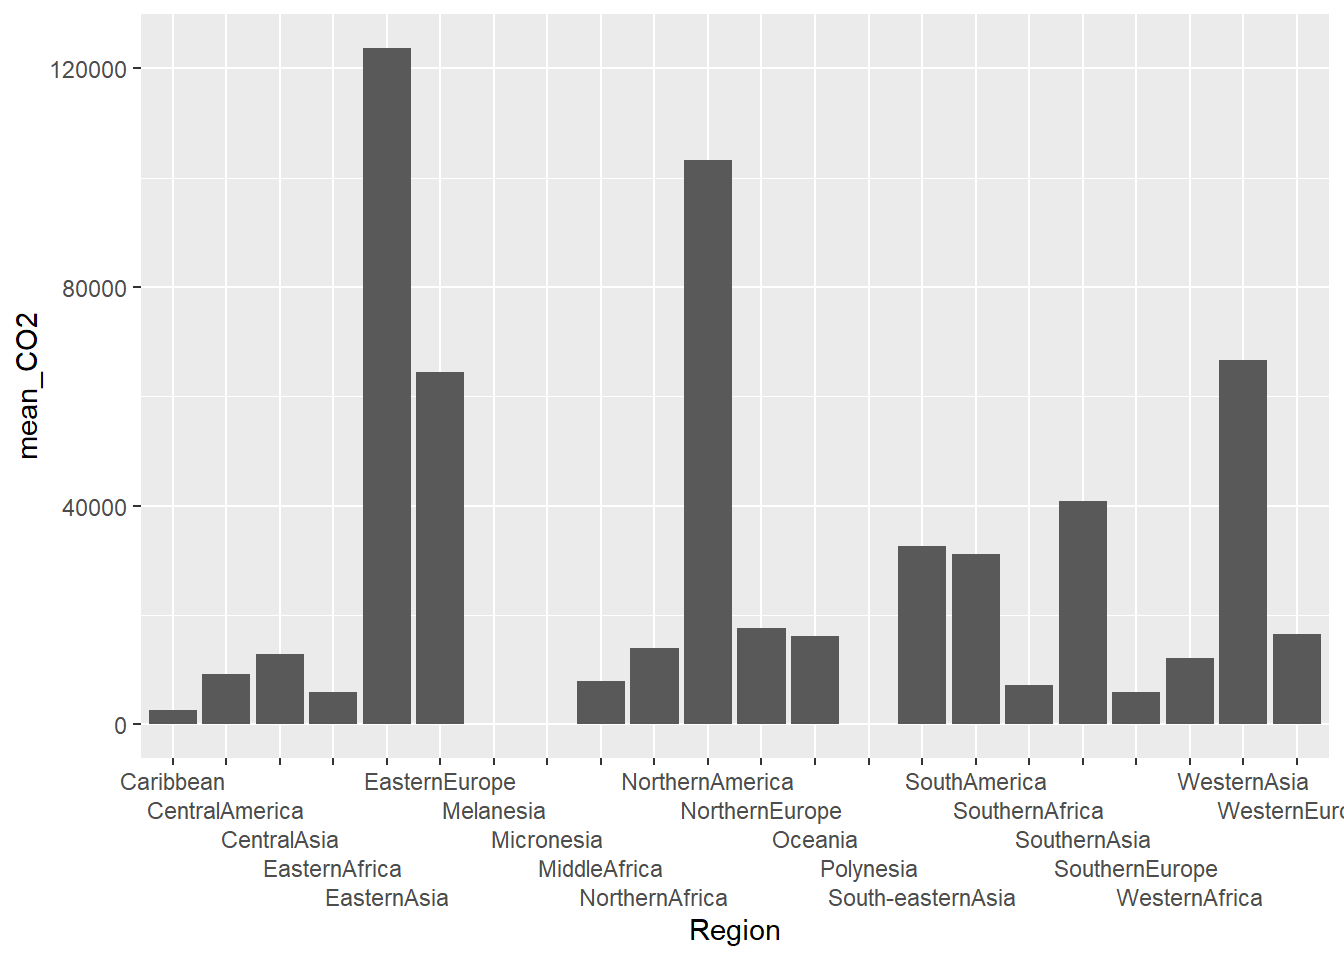
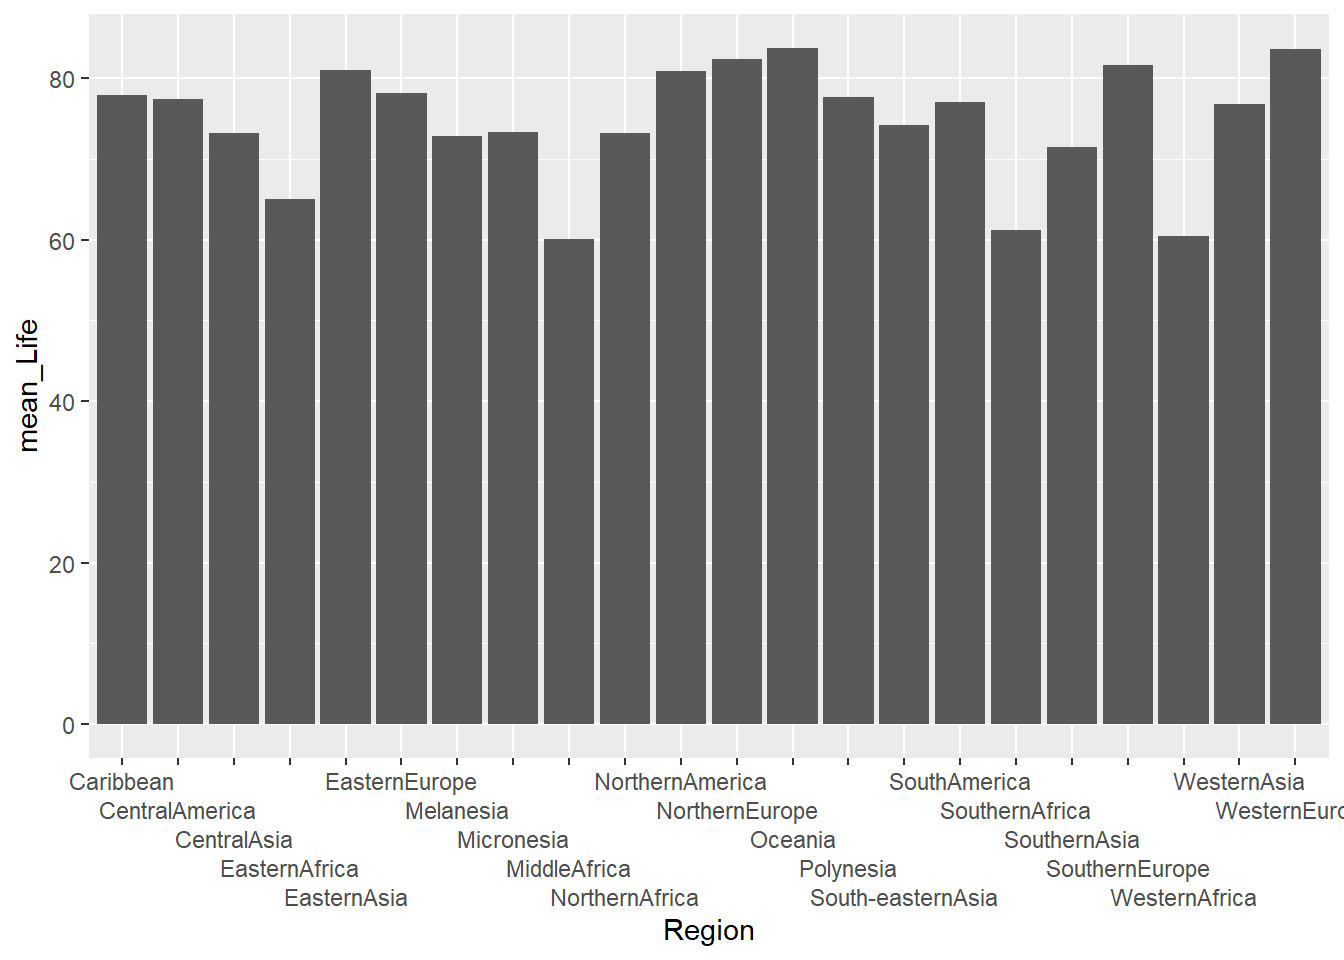
fixx

diff --git a/content/post/2021-06-16-assignment-5-caleb-coulson-data-analysis/index.html b/content/post/2021-06-16-assignment-5-caleb-coulson-data-analysis/index.html
@@ -81,11 +81,7 @@ tags: []
 <p><img src="{{< blogdown/postref >}}index_files/figure-html/unnamed-chunk-8-1.png" width="672" /></p>
 <div id="from-this-plot-it-can-be-seen-that-there-is-a-large-range-of-life-expectancys-from-49-to-86.-to-get-a-better-insight-as-to-where-life-expectancys-are-high-and-low-i-will-break-it-up-by-region-and-get-a-mean-for-each-region." class="section level3">
 <h3>from this plot it can be seen that there is a large range of life expectancys, from 49 to 86. To get a better insight as to where life expectancy’s are high and low I will break it up by region and get a mean for each region.</h3>
-<pre><code>## Rows: 22
-## Columns: 2
-## $ Region    &lt;chr&gt; &quot;Caribbean&quot;, &quot;CentralAmerica&quot;, &quot;CentralAsia&quot;, &quot;EasternAfrica~
-## $ mean_Life &lt;dbl&gt; 77.87222, 77.42500, 73.20000, 65.06842, 81.05714, 78.18000, ~</code></pre>
-<p><img src="{{< blogdown/postref >}}index_files/figure-html/unnamed-chunk-9-1.png" width="672" /></p>
+<p><img src="{{< blogdown/postref >}}index_files/figure-html/unnamed-chunk-10-1.png" width="672" /></p>
 </div>
 <div id="from-this-plot-it-can-be-seen-that-there-are-some-regions-that-have-much-lower-average-life-expectancys-than-others-the-4-worst-are-the-four-sections-of-africa-west-eastsouth-and-north-africa." class="section level3">
 <h3>From this plot it can be seen that there are some regions that have much lower average life expectancy’s than others, the 4 worst are the four sections of africa (west, east,south and north africa).</h3>
@@ -93,10 +89,10 @@ tags: []
 </div>
 <div id="the-final-question-i-seeked-to-answer-was-what-region-is-to-blame-for-the-most-co2-emissions" class="section level2">
 <h2>The final question I seeked to answer was what region is to blame for the most CO2 emissions?</h2>
-<p><img src="{{< blogdown/postref >}}index_files/figure-html/unnamed-chunk-11-1.png" width="672" /></p>
+<p><img src="{{< blogdown/postref >}}index_files/figure-html/unnamed-chunk-12-1.png" width="672" /></p>
 <div id="from-this-plot-it-can-be-seen-that-the-co2-utput-per-cap-is-highest-in-easten-asia-north-america-and-westen-asia.-now-that-we-have-the-mean-co2-output-and-mean-gdp-per-cap-for-each-region-it-would-be-interesting-to-see-the-corrilation-of-these-two-values-that-can-be-seen-in-he-following-graph" class="section level3">
 <h3>from this plot it can be seen that the CO2 utput per cap is highest in Easten asia, north america, and westen asia. Now that we have the mean CO2 output, and mean GDP per cap for each region, It would be interesting to see the corrilation of these two values, that can be seen in he following graph</h3>
-<p><img src="{{< blogdown/postref >}}index_files/figure-html/unnamed-chunk-12-1.png" width="672" /></p>
+<p><img src="{{< blogdown/postref >}}index_files/figure-html/unnamed-chunk-13-1.png" width="672" /></p>
 </div>
 <div id="while-it-can-be-seen-that-the-data-set-is-small-as-it-is-20-or-so-points-it-can-be-seen-that-there-is-a-general-trend-upwards-in-gdp-as-the-mean-co2-output-per-capita-increases.-this-again-supports-the-argument-that-industrialization-and-urbanization-is-good-for-a-countrys-population-in-terms-of-wealth-however-it-is-still-detrimental-to-the-publics-health." class="section level3">
 <h3>while it can be seen that the data set is small as it is 20 or so points, it can be seen that there is a General trend upwards in GDP as the mean CO2 output per capita increases. This again supports the argument that industrialization and urbanization is good for a country’s population in terms of wealth, however it is still detrimental to the public’s health.</h3>
